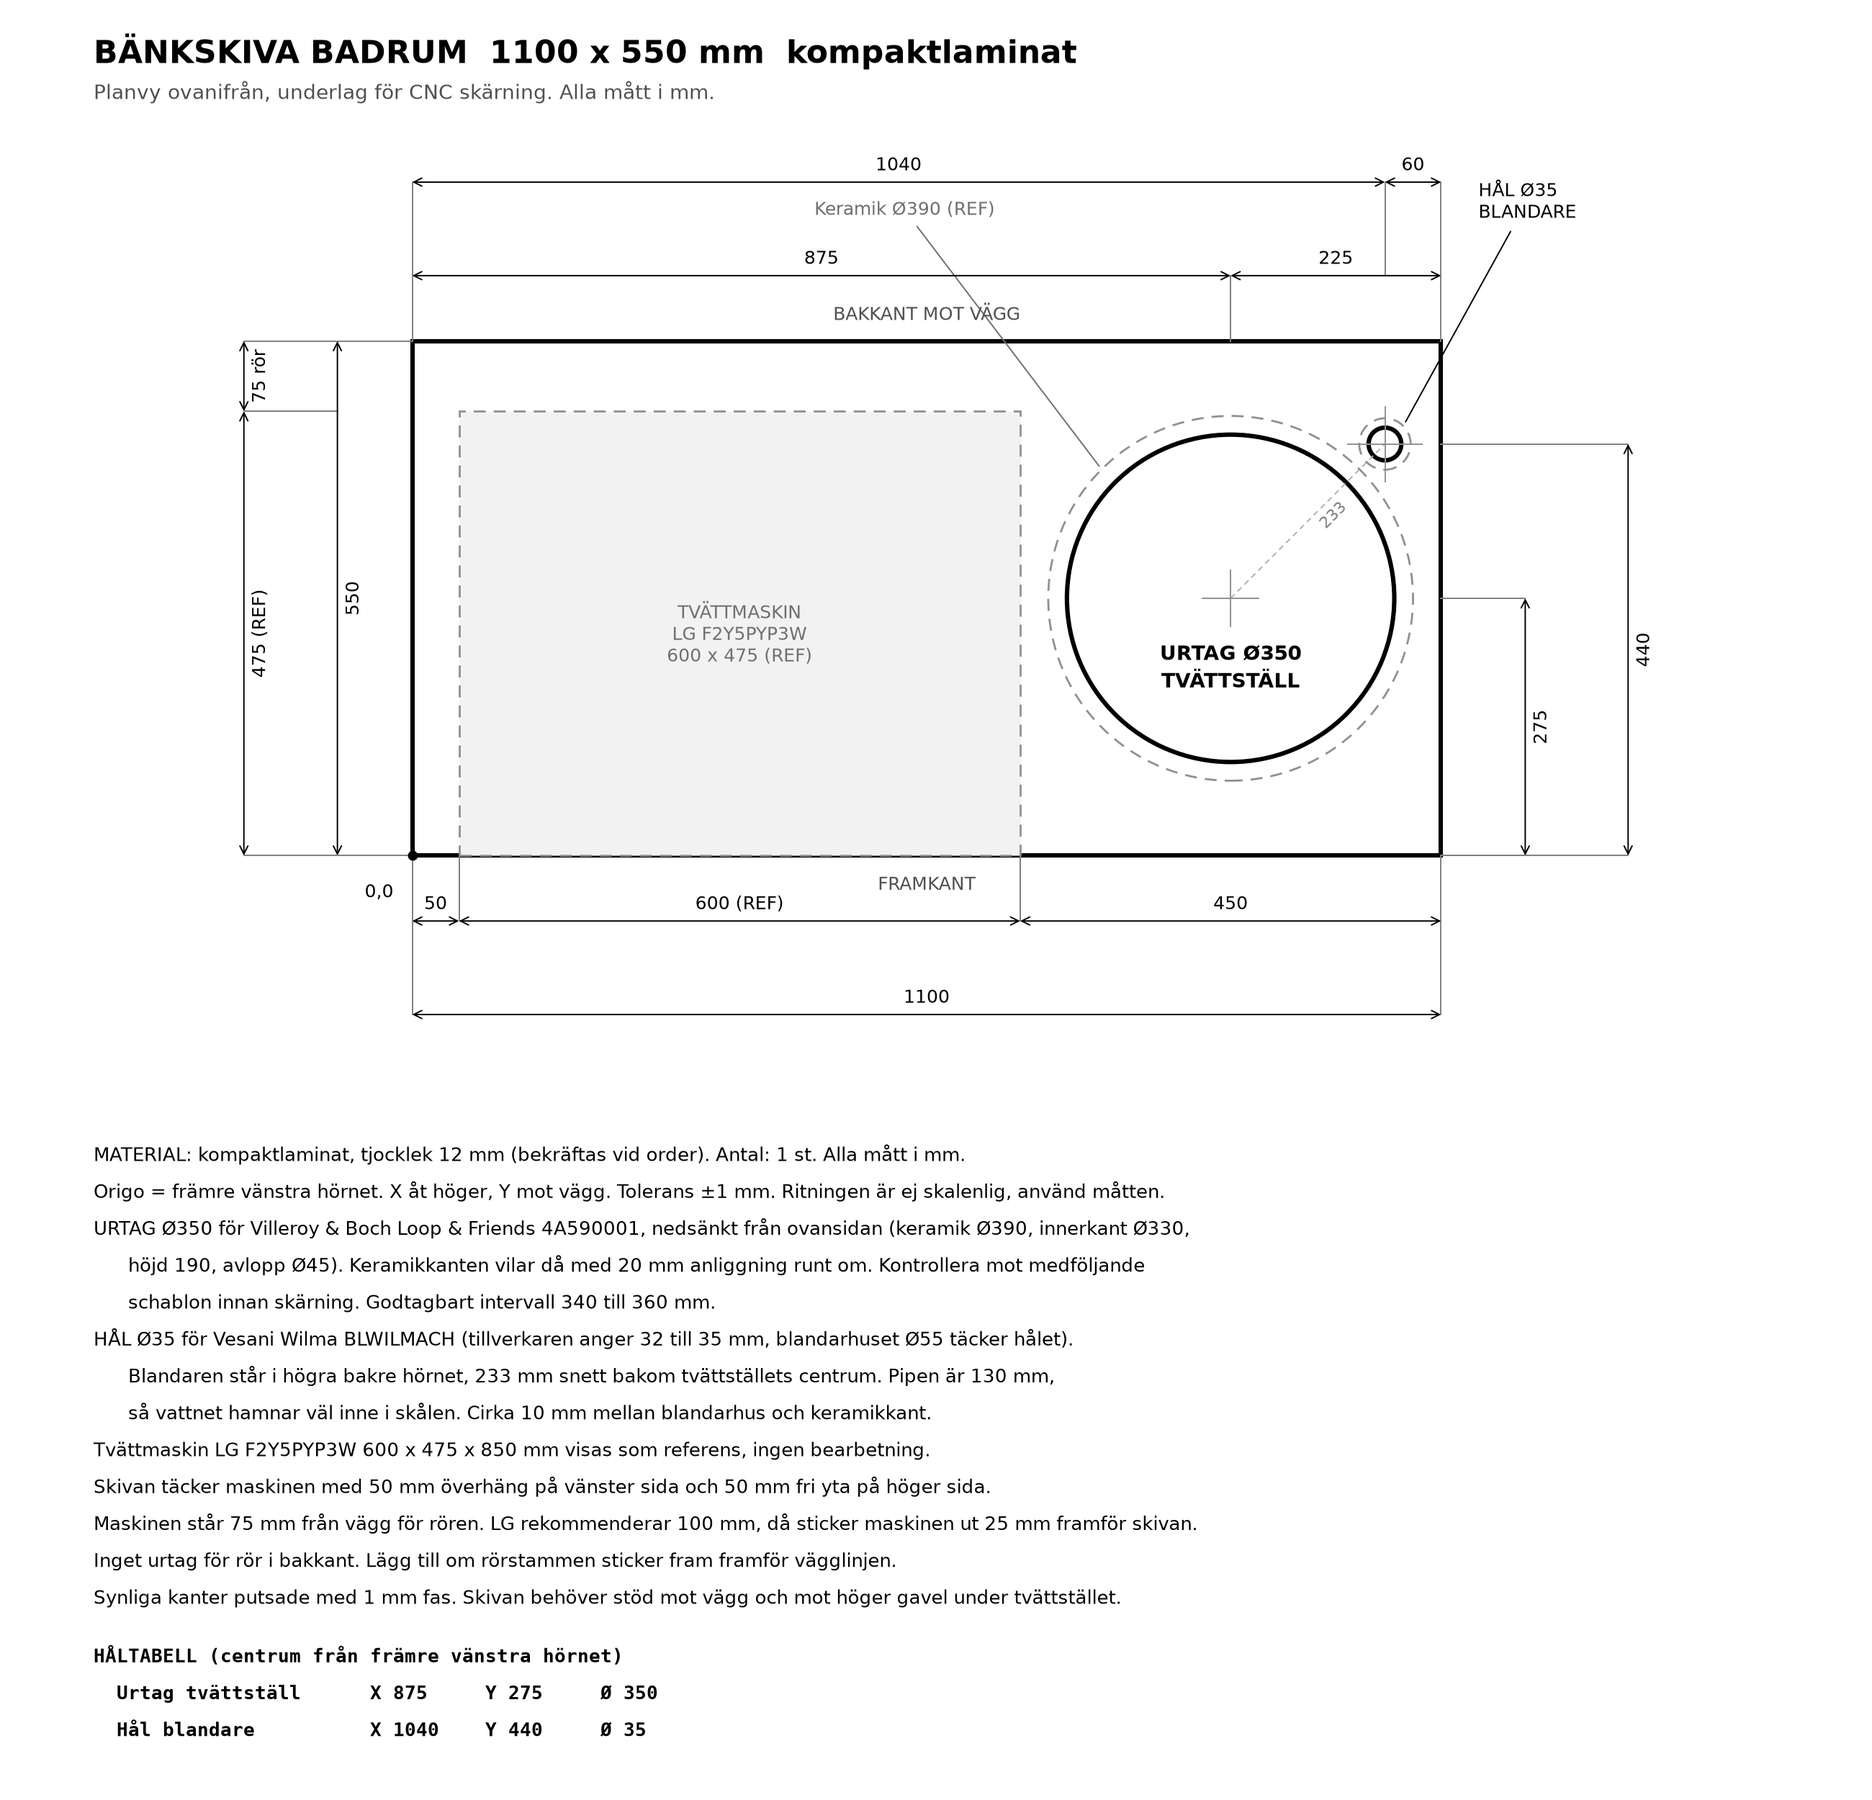
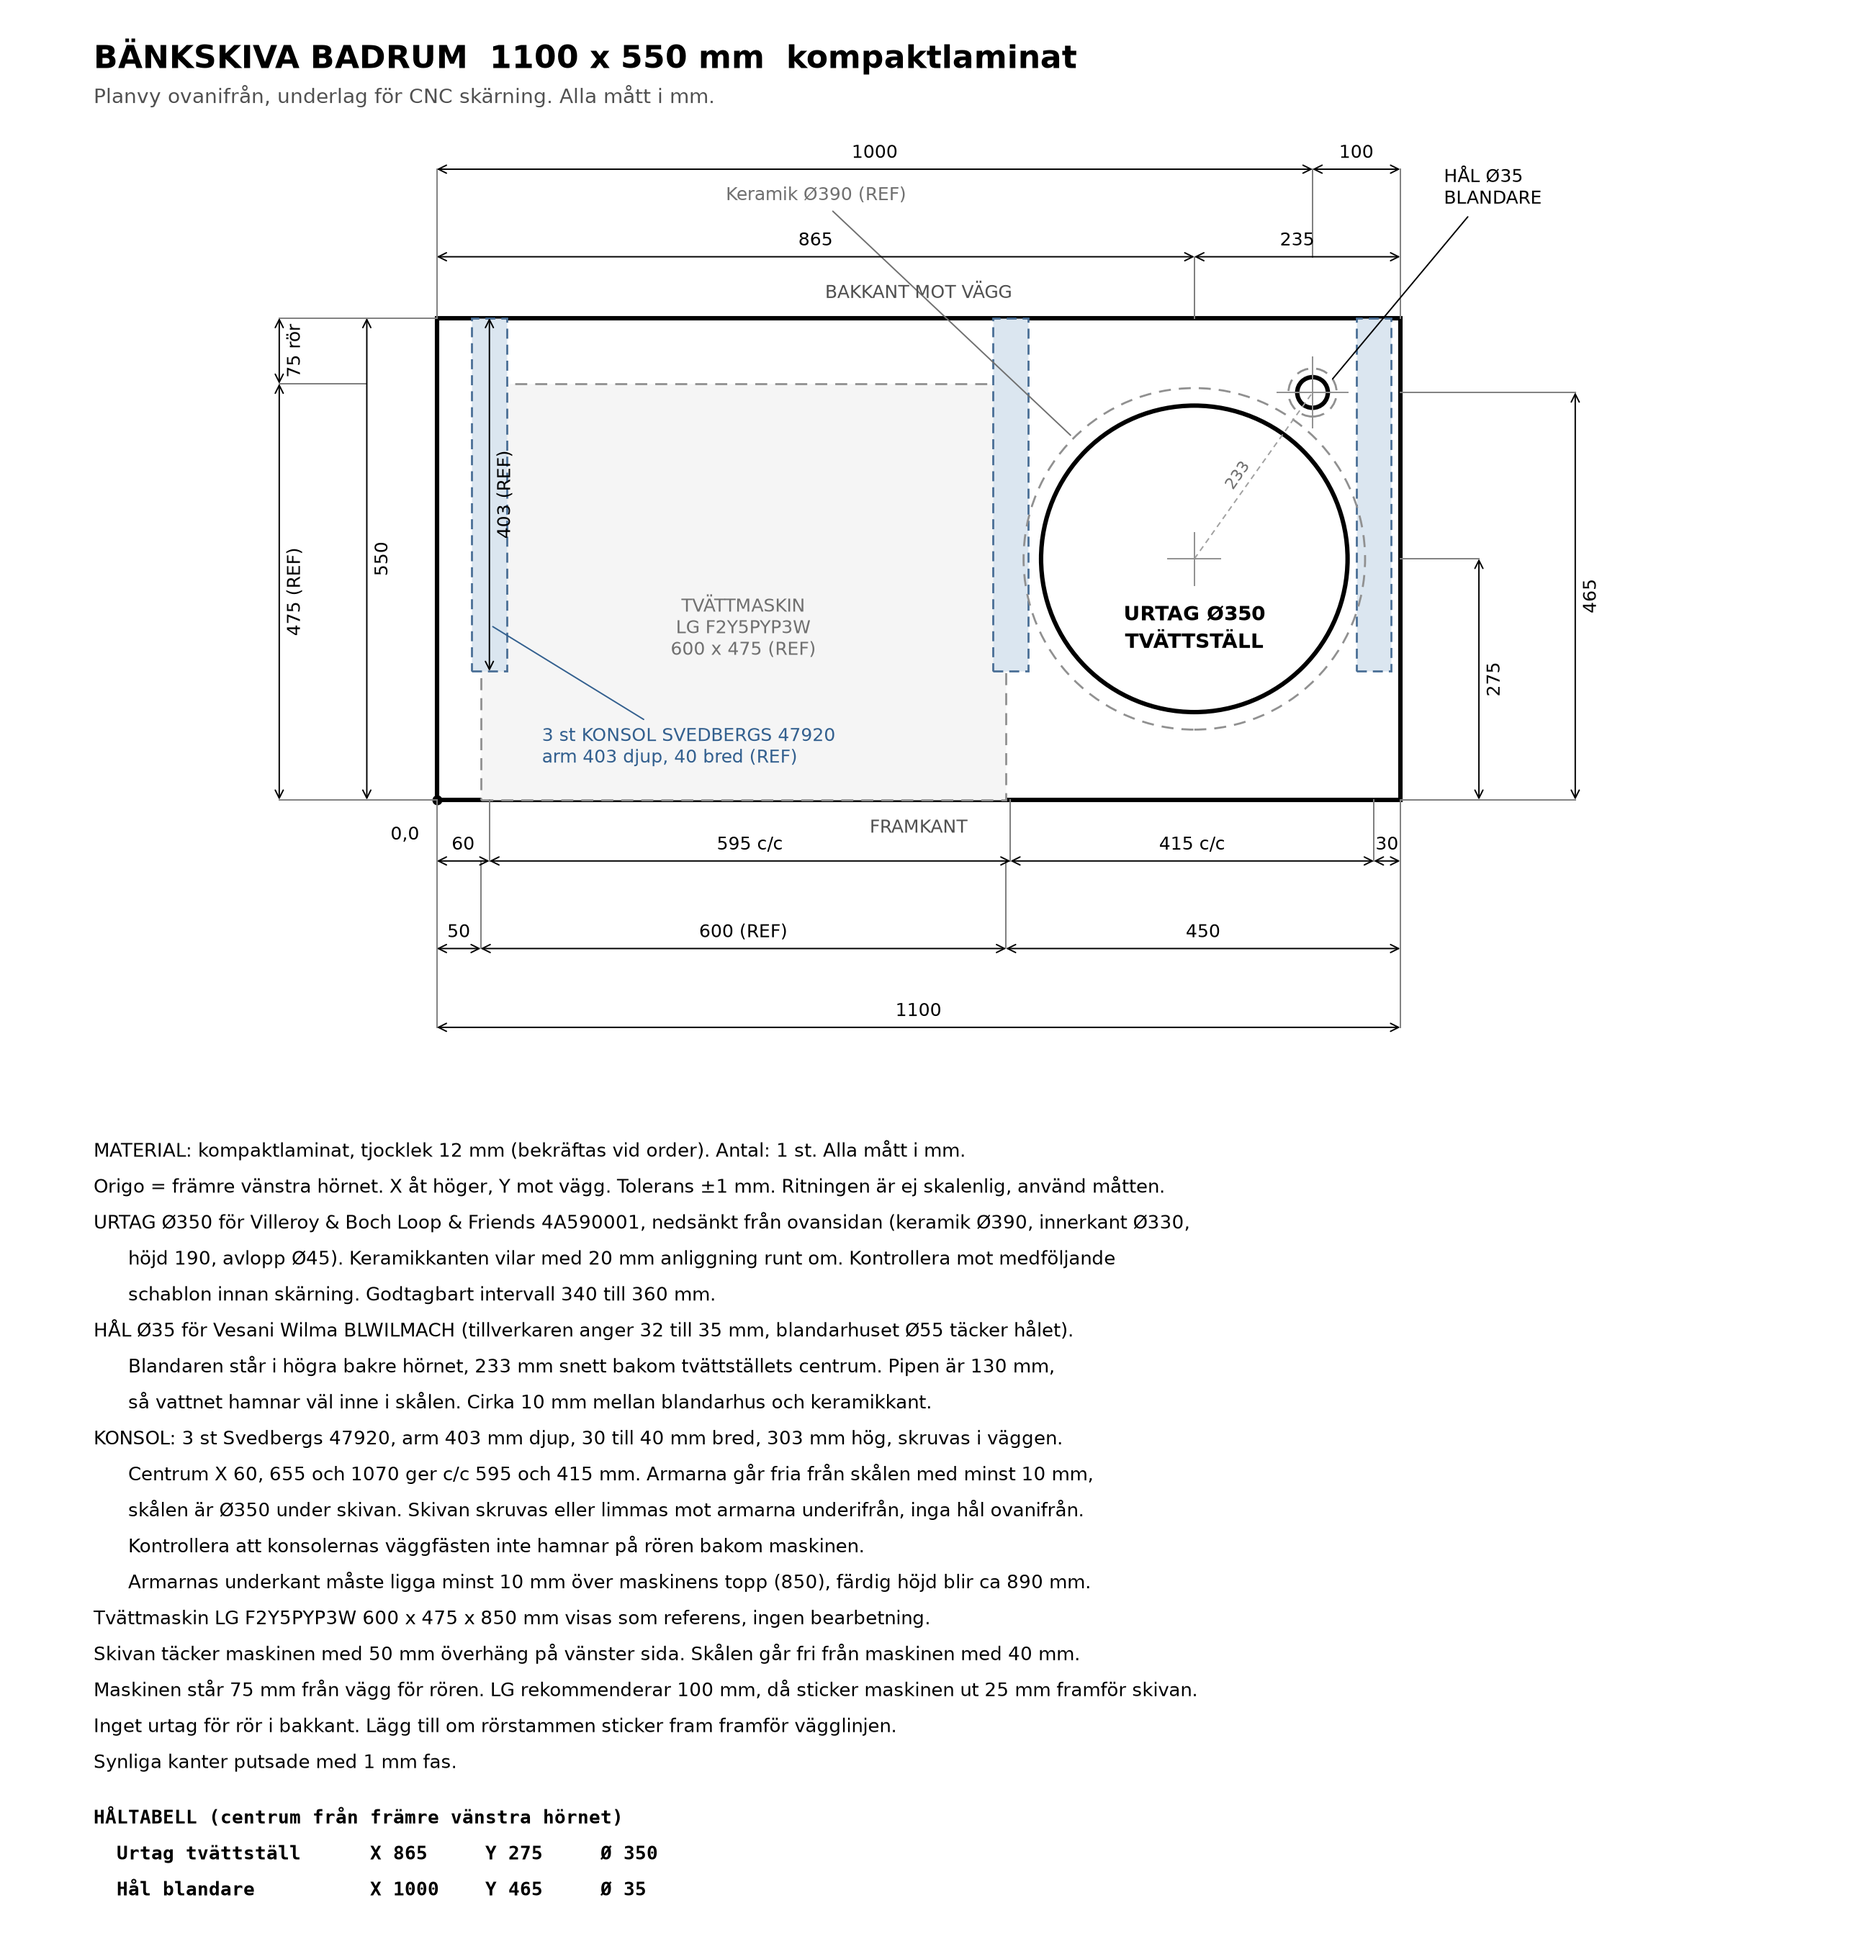
add three Svedbergs wall brackets to worktop drawing and shift basin and mixer to clear them

diff --git a/worktop_drawing/plan_drawing.py b/worktop_drawing/plan_drawing.py
@@ -14,52 +14,51 @@ NOTES = [
     "MATERIAL: kompaktlaminat, tjocklek 12 mm (bekräftas vid order). Antal: 1 st. Alla mått i mm.",
     "Origo = främre vänstra hörnet. X åt höger, Y mot vägg. Tolerans ±1 mm. Ritningen är ej skalenlig, använd måtten.",
     "URTAG Ø350 för Villeroy & Boch Loop & Friends 4A590001, nedsänkt från ovansidan (keramik Ø390, innerkant Ø330,",
-    "      höjd 190, avlopp Ø45). Keramikkanten vilar då med 20 mm anliggning runt om. Kontrollera mot medföljande",
+    "      höjd 190, avlopp Ø45). Keramikkanten vilar med 20 mm anliggning runt om. Kontrollera mot medföljande",
     "      schablon innan skärning. Godtagbart intervall 340 till 360 mm.",
     "HÅL Ø35 för Vesani Wilma BLWILMACH (tillverkaren anger 32 till 35 mm, blandarhuset Ø55 täcker hålet).",
     "      Blandaren står i högra bakre hörnet, 233 mm snett bakom tvättställets centrum. Pipen är 130 mm,",
     "      så vattnet hamnar väl inne i skålen. Cirka 10 mm mellan blandarhus och keramikkant.",
+    "KONSOL: 3 st Svedbergs 47920, arm 403 mm djup, 30 till 40 mm bred, 303 mm hög, skruvas i väggen.",
+    "      Centrum X 60, 655 och 1070 ger c/c 595 och 415 mm. Armarna går fria från skålen med minst 10 mm,",
+    "      skålen är Ø350 under skivan. Skivan skruvas eller limmas mot armarna underifrån, inga hål ovanifrån.",
+    "      Kontrollera att konsolernas väggfästen inte hamnar på rören bakom maskinen.",
+    "      Armarnas underkant måste ligga minst 10 mm över maskinens topp (850), färdig höjd blir ca 890 mm.",
     "Tvättmaskin LG F2Y5PYP3W 600 x 475 x 850 mm visas som referens, ingen bearbetning.",
-    "Skivan täcker maskinen med 50 mm överhäng på vänster sida och 50 mm fri yta på höger sida.",
+    "Skivan täcker maskinen med 50 mm överhäng på vänster sida. Skålen går fri från maskinen med 40 mm.",
     "Maskinen står 75 mm från vägg för rören. LG rekommenderar 100 mm, då sticker maskinen ut 25 mm framför skivan.",
     "Inget urtag för rör i bakkant. Lägg till om rörstammen sticker fram framför vägglinjen.",
-    "Synliga kanter putsade med 1 mm fas. Skivan behöver stöd mot vägg och mot höger gavel under tvättstället.",
+    "Synliga kanter putsade med 1 mm fas.",
 ]
 
 HOLE_TABLE = [
     "HÅLTABELL (centrum från främre vänstra hörnet)",
-    "  Urtag tvättställ      X 875     Y 275     Ø 350",
-    "  Hål blandare          X 1040    Y 440     Ø 35",
+    "  Urtag tvättställ      X 865     Y 275     Ø 350",
+    "  Hål blandare          X 1000    Y 465     Ø 35",
 ]
 
 
-def build_figure():
-    fig = plt.figure(figsize=(13, 12.5))
-    ax = fig.add_axes([0.05, 0.40, 0.9, 0.53])
-    ax.set_aspect("equal")
-    ax.axis("off")
-    ax.set_xlim(-260, 1380)
-    ax.set_ylim(-240, 780)
-
+def draw_top(ax):
     ax.add_patch(
         Rectangle((0, 0), s.TOP_WIDTH, s.TOP_DEPTH, fill=False, lw=2.2, edgecolor="black")
     )
 
-    machine_x = s.MACHINE_LEFT_MARGIN
+
+def draw_machine(ax):
     ax.add_patch(
         Rectangle(
-            (machine_x, 0),
+            (s.MACHINE_LEFT_MARGIN, 0),
             s.MACHINE_WIDTH,
             s.MACHINE_DEPTH,
-            facecolor="#f2f2f2",
+            facecolor="#f5f5f5",
             edgecolor="#909090",
             lw=MACHINE_LINE,
             ls=(0, (6, 4)),
         )
     )
     ax.text(
-        machine_x + s.MACHINE_WIDTH / 2,
-        s.MACHINE_DEPTH / 2,
+        s.MACHINE_LEFT_MARGIN + s.MACHINE_WIDTH / 2,
+        s.MACHINE_DEPTH / 2 - 40,
         "TVÄTTMASKIN\nLG F2Y5PYP3W\n600 x 475 (REF)",
         ha="center",
         va="center",
@@ -67,6 +66,23 @@ def build_figure():
         color="#707070",
     )
 
+
+def draw_brackets(ax):
+    for x in s.BRACKET_CENTERS:
+        ax.add_patch(
+            Rectangle(
+                (x - s.BRACKET_WIDTH / 2, s.TOP_DEPTH - s.BRACKET_DEPTH),
+                s.BRACKET_WIDTH,
+                s.BRACKET_DEPTH,
+                facecolor="#dbe6f0",
+                edgecolor="#4a6f96",
+                lw=1.0,
+                ls=(0, (5, 3)),
+            )
+        )
+
+
+def draw_cutouts(ax):
     ax.add_patch(
         Circle(
             (s.BASIN_CENTER_X, s.BASIN_CENTER_Y),
@@ -81,9 +97,9 @@ def build_figure():
         Circle(
             (s.BASIN_CENTER_X, s.BASIN_CENTER_Y),
             s.BASIN_CUTOUT_DIAMETER / 2,
-            fill=False,
-            lw=2.2,
+            facecolor="white",
             edgecolor="black",
+            lw=2.2,
         )
     )
     ax.add_patch(
@@ -100,27 +116,27 @@ def build_figure():
         Circle(
             (s.MIXER_CENTER_X, s.MIXER_CENTER_Y),
             s.MIXER_HOLE_DIAMETER / 2,
-            fill=False,
-            lw=2.2,
+            facecolor="white",
             edgecolor="black",
+            lw=2.2,
         )
     )
-
     ax.plot(
         [s.BASIN_CENTER_X, s.MIXER_CENTER_X],
         [s.BASIN_CENTER_Y, s.MIXER_CENTER_Y],
         lw=0.7,
         ls=(0, (4, 3)),
-        color="#b0b0b0",
+        color="#a0a0a0",
     )
-    ax.text(985, 350, "233", fontsize=8, color="#808080", rotation=45, ha="center")
-
+    ax.text(915, 355, "233", fontsize=8, color="#707070", rotation=55, ha="center")
     cross(ax, s.BASIN_CENTER_X, s.BASIN_CENTER_Y, size=30, color="#909090")
     cross(ax, s.MIXER_CENTER_X, s.MIXER_CENTER_Y, size=40, color="#909090")
 
+
+def draw_labels(ax):
     ax.text(
         s.BASIN_CENTER_X,
-        s.BASIN_CENTER_Y - 75,
+        s.BASIN_CENTER_Y - 80,
         "URTAG Ø350\nTVÄTTSTÄLL",
         ha="center",
         va="center",
@@ -130,34 +146,23 @@ def build_figure():
     leader(
         ax,
         (s.BASIN_CENTER_X - 138, s.BASIN_CENTER_Y + 138),
-        (430, 690),
+        (330, 690),
         "Keramik Ø390 (REF)",
         color="#707070",
     )
     leader(
         ax,
-        (s.MIXER_CENTER_X + 20, s.MIXER_CENTER_Y + 20),
-        (1140, 700),
+        (s.MIXER_CENTER_X + 20, s.MIXER_CENTER_Y + 12),
+        (1150, 700),
         "HÅL Ø35\nBLANDARE",
     )
-
-    dim_h(ax, 0, s.MACHINE_LEFT_MARGIN, -70, "50", tick_to=0)
-    dim_h(ax, s.MACHINE_LEFT_MARGIN, machine_x + s.MACHINE_WIDTH, -70, "600 (REF)", tick_to=0)
-    dim_h(ax, machine_x + s.MACHINE_WIDTH, s.TOP_WIDTH, -70, "450", tick_to=0)
-    dim_h(ax, 0, s.TOP_WIDTH, -170, "1100", tick_to=-70)
-
-    dim_h(ax, 0, s.BASIN_CENTER_X, 620, "875", tick_to=s.TOP_DEPTH)
-    dim_h(ax, s.BASIN_CENTER_X, s.TOP_WIDTH, 620, "225", tick_to=s.TOP_DEPTH)
-    dim_h(ax, 0, s.MIXER_CENTER_X, 720, "1040", tick_to=620)
-    dim_h(ax, s.MIXER_CENTER_X, s.TOP_WIDTH, 720, "60", tick_to=620)
-
-    dim_v(ax, 0, s.TOP_DEPTH, -80, "550", tick_to=0)
-    dim_v(ax, 0, s.MACHINE_DEPTH, -180, "475 (REF)", tick_to=-80)
-    dim_v(ax, s.MACHINE_DEPTH, s.TOP_DEPTH, -180, "75 rör", tick_to=-80)
-
-    dim_v(ax, 0, s.BASIN_CENTER_Y, 1190, "275", tick_to=s.TOP_WIDTH)
-    dim_v(ax, 0, s.MIXER_CENTER_Y, 1300, "440", tick_to=s.TOP_WIDTH)
-
+    leader(
+        ax,
+        (s.BRACKET_CENTERS[0], 200),
+        (120, 60),
+        "3 st KONSOL SVEDBERGS 47920\narm 403 djup, 40 bred (REF)",
+        color="#33608f",
+    )
     ax.text(
         s.TOP_WIDTH / 2,
         s.TOP_DEPTH + 18,
@@ -179,6 +184,49 @@ def build_figure():
     ax.plot([0], [0], marker="o", ms=4, color="black")
     ax.text(-20, -30, "0,0", ha="right", va="top", fontsize=9)
 
+
+def draw_dimensions(ax):
+    b1, b2, b3 = s.BRACKET_CENTERS
+    dim_h(ax, 0, b1, -70, "60", tick_to=0)
+    dim_h(ax, b1, b2, -70, "595 c/c", tick_to=0)
+    dim_h(ax, b2, b3, -70, "415 c/c", tick_to=0)
+    dim_h(ax, b3, s.TOP_WIDTH, -70, "30", tick_to=0)
+
+    machine_right = s.MACHINE_LEFT_MARGIN + s.MACHINE_WIDTH
+    dim_h(ax, 0, s.MACHINE_LEFT_MARGIN, -170, "50", tick_to=-70)
+    dim_h(ax, s.MACHINE_LEFT_MARGIN, machine_right, -170, "600 (REF)", tick_to=-70)
+    dim_h(ax, machine_right, s.TOP_WIDTH, -170, "450", tick_to=-70)
+    dim_h(ax, 0, s.TOP_WIDTH, -260, "1100", tick_to=-170)
+
+    dim_h(ax, 0, s.BASIN_CENTER_X, 620, "865", tick_to=s.TOP_DEPTH)
+    dim_h(ax, s.BASIN_CENTER_X, s.TOP_WIDTH, 620, "235", tick_to=s.TOP_DEPTH)
+    dim_h(ax, 0, s.MIXER_CENTER_X, 720, "1000", tick_to=620)
+    dim_h(ax, s.MIXER_CENTER_X, s.TOP_WIDTH, 720, "100", tick_to=620)
+
+    dim_v(ax, 0, s.TOP_DEPTH, -80, "550", tick_to=0)
+    dim_v(ax, 0, s.MACHINE_DEPTH, -180, "475 (REF)", tick_to=-80)
+    dim_v(ax, s.MACHINE_DEPTH, s.TOP_DEPTH, -180, "75 rör", tick_to=-80)
+    dim_v(ax, s.TOP_DEPTH - s.BRACKET_DEPTH, s.TOP_DEPTH, b1, "403 (REF)")
+
+    dim_v(ax, 0, s.BASIN_CENTER_Y, 1190, "275", tick_to=s.TOP_WIDTH)
+    dim_v(ax, 0, s.MIXER_CENTER_Y, 1300, "465", tick_to=s.TOP_WIDTH)
+
+
+def build_figure():
+    fig = plt.figure(figsize=(13, 13.5))
+    ax = fig.add_axes([0.05, 0.44, 0.9, 0.50])
+    ax.set_aspect("equal")
+    ax.axis("off")
+    ax.set_xlim(-260, 1400)
+    ax.set_ylim(-330, 780)
+
+    draw_top(ax)
+    draw_machine(ax)
+    draw_brackets(ax)
+    draw_cutouts(ax)
+    draw_labels(ax)
+    draw_dimensions(ax)
+
     fig.text(
         0.05,
         0.965,
@@ -188,21 +236,21 @@ def build_figure():
     )
     fig.text(
         0.05,
-        0.945,
+        0.947,
         "Planvy ovanifrån, underlag för CNC skärning. Alla mått i mm.",
         fontsize=10,
         color="#505050",
     )
 
-    y = 0.355
+    y = 0.405
     for line in NOTES:
         fig.text(0.05, y, line, fontsize=9.5)
-        y = y - 0.0205
+        y = y - 0.0185
 
-    y = y - 0.012
+    y = y - 0.010
     for line in HOLE_TABLE:
         fig.text(0.05, y, line, fontsize=9.5, family="monospace", fontweight="bold")
-        y = y - 0.0205
+        y = y - 0.0185
 
     return fig
 

diff --git a/worktop_drawing/specs.py b/worktop_drawing/specs.py
@@ -12,11 +12,15 @@ PIPE_GAP_RECOMMENDED = 100
 BASIN_CERAMIC_DIAMETER = 390
 BASIN_INNER_DIAMETER = 330
 BASIN_CUTOUT_DIAMETER = 350
-BASIN_CENTER_X = 875
+BASIN_CENTER_X = 865
 BASIN_CENTER_Y = 275
 
 MIXER_HOLE_DIAMETER = 35
 MIXER_BODY_DIAMETER = 55
 MIXER_SPOUT_REACH = 130
-MIXER_CENTER_X = 1040
-MIXER_CENTER_Y = 440
+MIXER_CENTER_X = 1000
+MIXER_CENTER_Y = 465
+
+BRACKET_WIDTH = 40
+BRACKET_DEPTH = 403
+BRACKET_CENTERS = [60, 655, 1070]

diff --git a/worktop_drawing/README.md b/worktop_drawing/README.md
@@ -27,3 +27,4 @@ Filerna hamnar i `output/`:
 - Tvättställ: Villeroy & Boch Loop & Friends 4A590001, Ø390 mm, innerkant Ø330 mm, höjd 190 mm
 - Blandare: Vesani Wilma BLWILMACH, hålkrav 32 till 35 mm, piputsprång 130 mm, blandarhus Ø55 mm
 - Tvättmaskin: LG F2Y5PYP3W, 600 x 475 x 850 mm
+- Konsol: 3 st Svedbergs 47920, 30 till 40 x 303 x 403 mm (BxHxD), fästs i väggen
